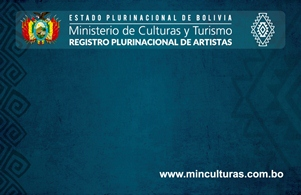
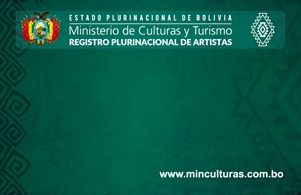
adicion de imagenes

diff --git a/frontEnd/src/app/login/login.component.html b/frontEnd/src/app/login/login.component.html
@@ -1,9 +1,12 @@
 
-<header id="header" class="animated fadeInDown" style="height: 120px; padding: 10px">
+<header id="header" class="img animated fadeInDown" style="height: 240px; padding: 10px;
+    background-image: url('assets/img/encabezado.jpg');
+    background-repeat: no-repeat;
+    background-position: center top;">
     
   <div id="logo-group" style="text-align: center;  display:block; ; margin-left:20px;">
     <!--<span id="logo"> <img src="assets/img/logo.png" alt="SmartAdmin"> </span>-->
-    <img src="assets/img/logo.png"  alt="" style="display: block; margin-left: auto; margin-right: auto;">
+    <!--<img src="assets/img/encabezado.jpg"  alt="Ministerio de Culturas y" style="display: block; margin-left: auto; margin-right: auto;">-->
   </div>
 
   
@@ -11,12 +14,12 @@
 </header>
 <div id="main" role="main" class="animated fadeInDown" style="margin-left: 0px">
     
-  <div id="content" class="container">
+  <div id="content" class="container" style="width: 1024px;">
     <div class="row">
         
       <div class="col-xs-12 col-sm-12 col-md-7 col-lg-8 hidden-xs hidden-sm">
           
-        <h1 class="login-header-big">Registro Plurinacional de Artistas</h1>
+        <!--<h1 class="login-header-big">Registro Plurinacional de Artistas</h1>-->
 
         <div class="hero">
           <div class="pull-left login-desc-box-l">

diff --git a/frontEnd/src/app/home/home.component.html b/frontEnd/src/app/home/home.component.html
@@ -1,5 +1,6 @@
-		<header id="header">
-			<div id="logo-group"><strong>SISTEMA DE REGISTRO DE ARTISTAS</strong>
+		<header id="header" style="height: 70px; background-image: url('assets/img/encabezado_m.jpg');
+    background-repeat: repeat; background-position: top left;">
+			<div id="logo-group" style="padding-top:20px"><h3>SISTEMA DE REGISTRO DE ARTISTAS</h3>
 			
 
 				<!-- PLACE YOUR LOGO HERE -->
@@ -42,7 +43,7 @@
 
 			
 			
-				
+				<div style="padding: 10px;">
 				<div id="logout" class="btn-header transparent pull-right">
 					<span> 
 						<a routerLink="/" routerLinkActive="active" title="Sign Out" data-action="userLogout">Salir <i class="fa fa-sign-out"></i></a> </span>
@@ -50,9 +51,10 @@
 				<div class="btn-header transparent pull-right">
 						<span> <a href="login.html" title="Sign Out">Perfil <i class="fa fa-gear fa-fw"></i></a> </span>
 				</div>
-				<div class="btn-header transparent pull-right" style="margin-top:15px;">
-						Usuario: <strong> {{nombre}} {{apellido}}</strong>
+				<div class="btn-header transparent pull-right" style="padding-top: 15px;">
+						<span style="color: white;"> Usuario: <strong> {{nombre}} {{apellido}}</strong></span>
 				</div>
+			</div>
 				<!-- end logout button -->
 
 				<!-- search mobile button (this is hidden till mobile view port) -->

diff --git a/frontEnd/src/app/perfil-artista/perfil-artista.component.html b/frontEnd/src/app/perfil-artista/perfil-artista.component.html
@@ -1,6 +1,9 @@
 <!--<<div style="background: rgba(76, 160, 97, 0.562); padding: 100px;">-->
-  <div style="background:#474544; padding: 100px;">
-  <div style="background: #f3f3f3; padding: 30px; border-radius: 1em">
+  <div style="background:#E2E2E2; margin: 0 auto; width: 1024px;">
+      <div style="height: 210px; background-image: url('assets/img/background2.jpg');
+      background-repeat: no-repeat; background-position: top center;"></div>
+  <div style="background: #E2E2E2; padding: 30px;">
+      
   <div class="row">
       <div class="col-sm-12 col-md-12">
           <div class="well well-light well-sm no-margin no-padding">
@@ -26,7 +29,7 @@
                 </div>-->
               </div>
 
-              <div class="col-sm-12">
+              <div id="img"class="col-sm-12">
                 
                 <div class="row">
 

diff --git a/frontEnd/src/app/listado-artistas/listado-artistas.component.html b/frontEnd/src/app/listado-artistas/listado-artistas.component.html
@@ -34,7 +34,7 @@
             <button type="button" pButton (click)="enviarFormulario(doc.id_individual)" title="Enviar Formulario" icon="fa-send"></button>
             <button type="button" pButton (click)="verFormulario(doc.id_individual)" title="Imprimir Formulario" icon="fa-print"></button>
             <button type="button" pButton (click)="verCredencial(doc.id_individual)" title="Ver Credencial" icon="fa fa-id-card"></button>
-            <button type="button" pButton (click)="verPerfil(doc.id_individual)" title="Ver Credencial" icon="fa fa-user"></button>
+            <button type="button" pButton (click)="verPerfil(doc.id_individual)" title="Ver Perfil" icon="fa fa-user"></button>
 
           <!--<div class="btn-group" dropdown>
             <button dropdownToggle type="button" class="btn btn-primary btn-sm dropdown-toggle">

diff --git a/frontEnd/src/app/formulario/formulario.component.html b/frontEnd/src/app/formulario/formulario.component.html
@@ -1,4 +1,9 @@
-<div style="padding: 10px 20px 10px 20px; margin-top: 20px;">
+
+<div style="height: 190px; background-image: url('assets/img/membretado.jpg');
+background-repeat: no-repeat; background-position: top center;"></div>
+<div style="padding: 0px 20px 10px 20px; margin:0 auto; max-width: 1600px;">
+    <!--<div style="height: 210px; background-image: url('assets/img/membretado.jpg');
+    background-repeat: no-repeat; background-position: top center;"></div>-->
   <div class="row">
     <div class="col-md-12">
       <h3 style="text-align: center"> REGISTRO INDIVIDUAL </h3>
@@ -103,4 +108,7 @@
 
     </div>
   </div>
+  <div style="height: 190px; background-image: url('assets/img/membretado_pie.jpg');
+background-repeat: no-repeat; background-position: top center;"></div>
 </div>
+

diff --git a/frontEnd/src/app/listado-solicitudes/listado-solicitudes.component.html b/frontEnd/src/app/listado-solicitudes/listado-solicitudes.component.html
@@ -33,6 +33,7 @@
               <button *ngIf="doc.id_estado =='APROBADO'" type="button" pButton (click)="verCredencial(doc.id_individual)" title="Ver Credencial" icon="fa fa-id-card"></button>
             <button *ngIf="doc.id_estado =='APROBADO'" type="button" pButton (click)="verPerfil(doc.id_individual)" title="Ver Credencial" icon="fa fa-user"></button>
             <button *ngIf="doc.id_estado =='APROBADO'" type="button" pButton (click)="ver(doc.id_individual)" title="Ver Hoja Artistica" icon="fa-address-card-o"></button>
+            <button *ngIf="doc.id_estado =='APROBADO'" type="button" pButton (click)="editarFormulario(doc.id_individual)" title="Editar Formulario" icon="fa-edit"></button>
           </ng-template>
         </p-column>
       </p-dataTable>

diff --git a/frontEnd/src/styles.css b/frontEnd/src/styles.css
@@ -419,3 +419,27 @@ color: #f3f3f3
     
     color:#156090 !important;
 }
+
+/*#header{
+    background-image: url('assets/img/encabezado.jpg');
+    background-repeat: no-repeat;
+    background-position: center top;
+}*/
+
+#img{
+    background-image: url('assets/img/background_xl.png');
+    background-repeat: no-repeat;
+    background-position: center top;
+    background-size: 900px;
+    
+}
+
+#content{
+    background-image: url('assets/img/background_m.png');
+    background-repeat: no-repeat;
+    background-position: left bottom;
+}
+
+#logo-group{
+    color: #f9dbdb;
+}

diff --git a/frontEnd/src/app/listado-solicitudes/listado-solicitudes.component.ts b/frontEnd/src/app/listado-solicitudes/listado-solicitudes.component.ts
@@ -57,5 +57,10 @@ export class ListadoSolicitudesComponent implements OnInit {
     this.router.navigate(link);
   }
   
+  editarFormulario(id: string) {
+    let link = ['home/registro-individual/' + id];
+    console.log(link)
+    this.router.navigate(link);
+  }
 
 }
